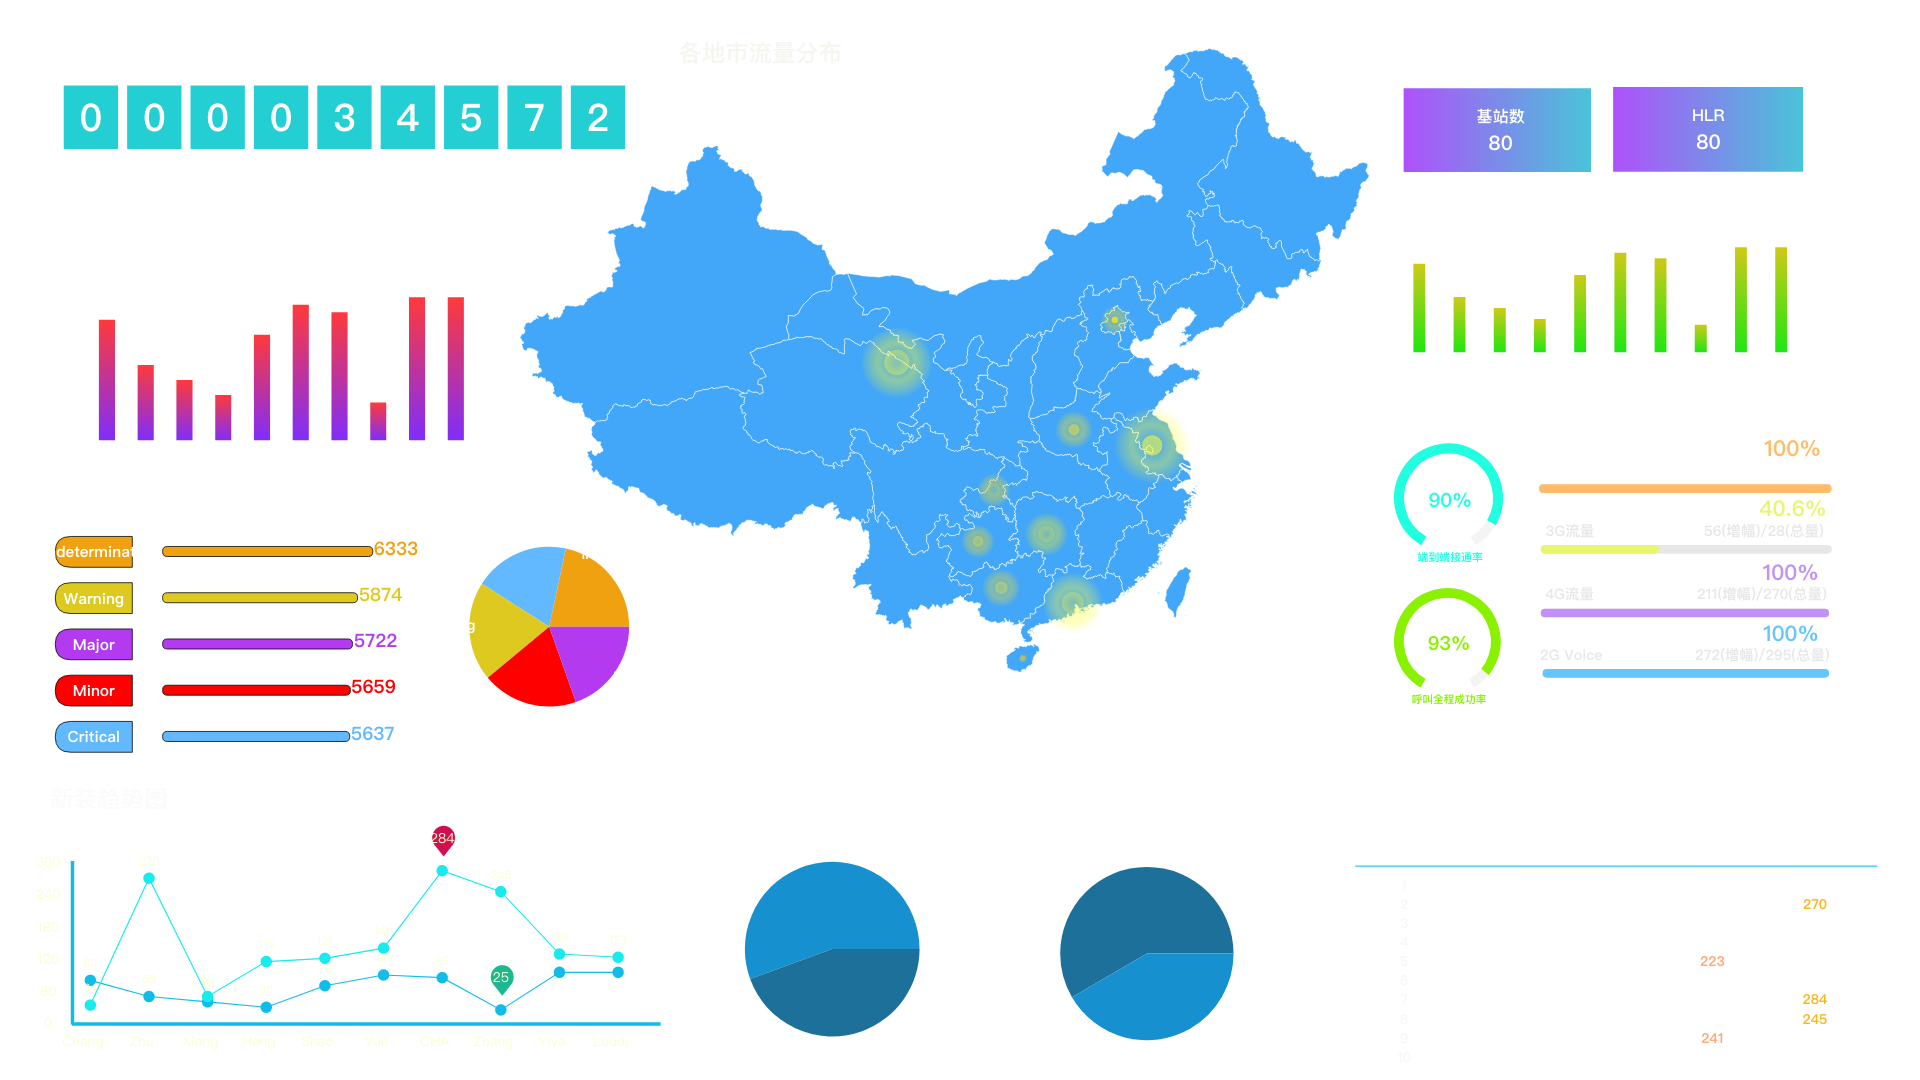
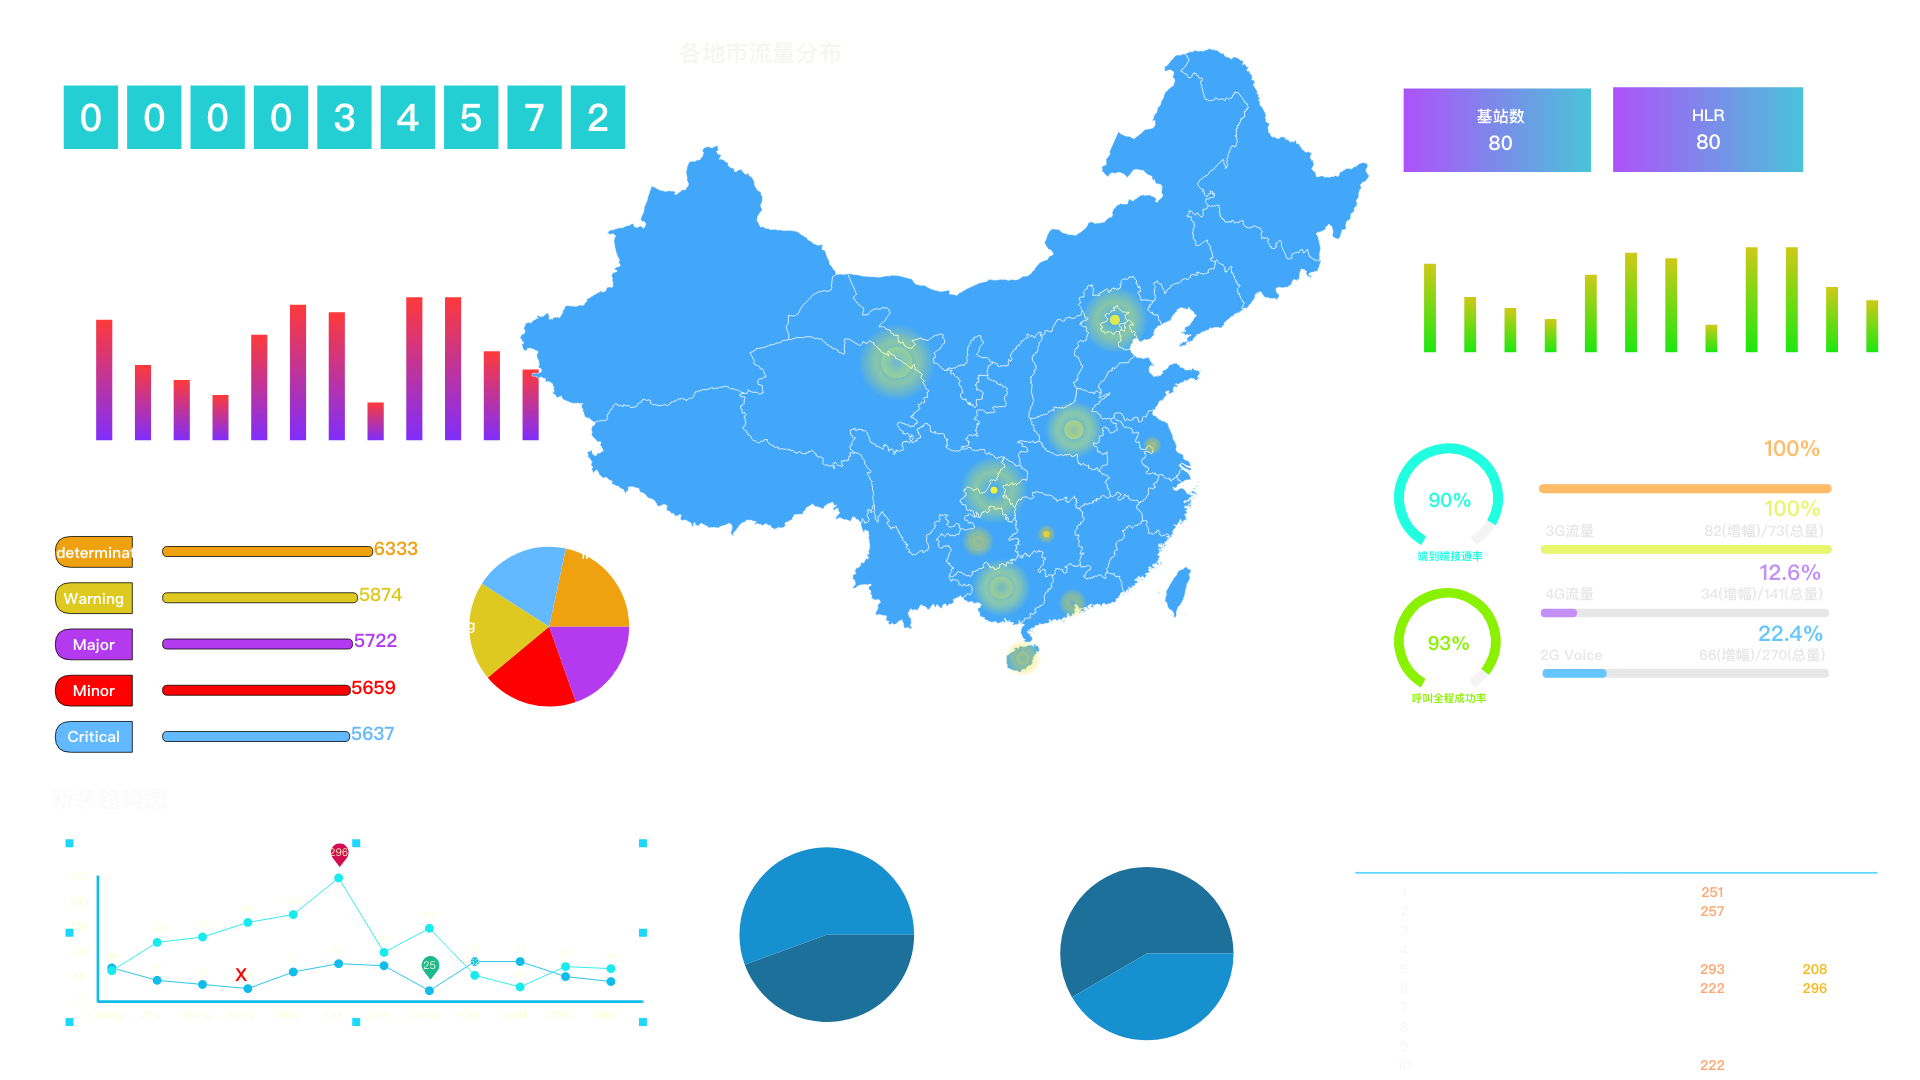
oss8.0

diff --git a/oss8.0/pm/screendesigner/js/dbHelper/virtualDB.js b/oss8.0/pm/screendesigner/js/dbHelper/virtualDB.js
@@ -7,6 +7,24 @@ define([], function() {
         serverLabel: 'NetworkOverviewDemoQryService',
         xAxis: [
             {
+                id: 'field_Mongolia_1',
+                name: 'Mongolia City',
+                data: [
+                    '阿拉善盟',
+                    '巴彦淖尔',
+                    '乌海市',
+                    '鄂尔多斯',
+                    '包头市',
+                    '呼和浩特',
+                    '乌兰察布',
+                    '锡林郭勒盟',
+                    '赤峰市',
+                    '通辽市',
+                    '兴安盟',
+                    '呼伦贝尔市',
+                ]
+            },
+            {
                 id: 'field_1',
                 name: 'City',
                 data: [
@@ -19,7 +37,9 @@ define([], function() {
                     'CHA',
                     'Zhang',
                     'Yiya',
-                    'Loudi'
+                    'Loudi',
+                    'ZHK',
+                    'Shuo'
                 ]
             }, {
                 id: 'field_11',
@@ -34,7 +54,10 @@ define([], function() {
                     '14h',
                     '15h',
                     '16h',
-                    '17h'
+                    '17h',
+                    '16h',
+                    '17h',
+
                 ]
             },
             {
@@ -68,6 +91,22 @@ define([], function() {
                 "CN-32",
                 "CN-41"
               ]
+            },
+            {
+              id:'filed_Mongolia_map',
+              'name':'Mongolia Map',
+              data:[
+                "Hulunbuir",
+                "Hinggan",
+                "Tongliao",
+                "Chifeng",
+                "XilinGol",
+                "Ulanqab",
+                "Honhot",
+                "Baotou",
+                "Ordos",
+                "Alxa",
+              ]
             }
         ],
         yAxis: [
@@ -85,11 +124,15 @@ define([], function() {
                     25,
                     95,
                     95,
+                    fish.random(20,85),
+                    fish.random(20,85),
                 ]
             }, {
                 id: 'field_3',
                 name: '3G Data traffic',
                 data: [
+                    fish.random(20,300),
+                    fish.random(20,300),
                     fish.random(20,300),
                     fish.random(20,300),
                     fish.random(20,300),
@@ -115,11 +158,15 @@ define([], function() {
                     fish.random(20,300),
                     fish.random(20,300),
                     fish.random(20,300),
+                    fish.random(20,300),
+                    fish.random(20,300),
                 ]
             }, {
                 id: 'field_5',
                 name: 'Base station number',
                 data: [
+                    fish.random(20,300),
+                    fish.random(20,300),
                     fish.random(20,300),
                     fish.random(20,300),
                     fish.random(20,300),
@@ -145,11 +192,15 @@ define([], function() {
                     fish.random(20,300),
                     fish.random(20,300),
                     fish.random(20,300),
+                    fish.random(20,300),
+                    fish.random(20,300),
                 ]
             }, {
                 id: 'field_7',
                 name: '4G Base station number',
                 data: [
+                    fish.random(20,300),
+                    fish.random(20,300),
                     fish.random(20,300),
                     fish.random(20,300),
                     fish.random(20,300),
@@ -175,11 +226,15 @@ define([], function() {
                     fish.random(20,300),
                     fish.random(20,300),
                     fish.random(20,300),
+                    fish.random(20,300),
+                    fish.random(20,300),
                 ]
             }, {
                 id: 'field_9',
                 name: '2G Voice traffic',
                 data: [
+                    fish.random(20,300),
+                    fish.random(20,300),
                     fish.random(20,300),
                     fish.random(20,300),
                     fish.random(20,300),
@@ -206,6 +261,8 @@ define([], function() {
                     fish.random(20,300),
                     fish.random(20,300),
                     fish.random(20,300),
+                    fish.random(20,300),
+                    fish.random(20,300),
                 ]
             }, {
                 id: 'field_12',
@@ -220,7 +277,9 @@ define([], function() {
                     34572,
                     34572,
                     34572,
-                    34572
+                    34572,
+                    34572,
+                    34572,
                 ]
             }
         ]

diff --git a/oss8.0/pm/screendesigner/js/graphLibs/GStripLineBase.js b/oss8.0/pm/screendesigner/js/graphLibs/GStripLineBase.js
@@ -140,7 +140,7 @@ define([
                }
 
             for(var i = 0 ;i<xlen;i++){
-
+                var color=colors[i%colors.length];
                 var label_y = (y-h)+(i*12)+20;
                 var label = this.attrs.xAxisLabels[i]
                 this.doms['x_label'+i] = paper.rect(x+label_x,label_y, 15, 6).attr({'fill': color, 'stroke-width': 0});
@@ -157,7 +157,6 @@ define([
             this.doms['remove'] = this.paper.text(160, -30, 'X').attr({'fill': 'red', 'font-size': 20, 'font-family': '微软雅黑', 'font-weight': 'bold'});;
 
         },
-
         drawLine:function(data,lineIndex,space_w,max,x,y,r,w,h,color,xlen,xAxisMax,xAxisMin) {
               x=x+10;
             var paper = this.paper;
@@ -198,7 +197,6 @@ define([
             this.doms['bgPath'+lineIndex] = bgPath;
             return items;
         },
-
         getMaxLength:function(names) {
               var   len = 0;
               var  result = "";
@@ -211,8 +209,6 @@ define([
              }
              return result;
         },
-
-
         getXAxisNames: function() {
             return this.attrs.xAxisNames;
         },
@@ -310,18 +306,14 @@ define([
             console.log("" + color)
             this.attrs.titleColor = "" + color;
         },
-
         getTitle: function() {
             return this.attrs.title;
         },
         getTitleColor: function() {
             return this.attrs.titleColor;
         },
-
         toGraph: function(choiceTreeJson) {
           try {
-            console.log("fjkdjhfkjdshkds");
-            console.log(choiceTreeJson);
             var json = {};
             json.xAxis = {};
             json.xAxis.data = choiceTreeJson.xAxis[0].data;
@@ -332,7 +324,6 @@ define([
             this.setXAxisNames(json.xAxis.data)
             this.setXAxisDatas(json.series.data)
             this.setXAxisLabels(json.series.labels)
-
           }catch(e){
             console.log("GStripLineBase ToGraph");
             console.log(choiceTreeJson);

diff --git a/oss8.0/pm/screendesigner/js/graphLibs/mapBase/MapSplashes.js b/oss8.0/pm/screendesigner/js/graphLibs/mapBase/MapSplashes.js
@@ -4,7 +4,6 @@ define([
    "oss_core/pm/screendesigner/actions/BScreenMgrAction"
 ], function(MapBase, View, action) {
    var MapSplashes  = MapBase.extend({
-
      initAttrs: function() {
        var self = this;
        this.attrs.mapId = this.attrs.mapId || 'NONE';
@@ -54,9 +53,11 @@ define([
        var max =fish.max(self.attrs.mapDatas,function(data){
          return data[1]
        })[1];
+
        var showTitle = this.attrs.showTitle;
        var showValue = this.attrs.showValue;
        for (var i = 0; i < self.attrs.mapDatas.length; i++){
+         try {
          var data = {
            'id': self.attrs.mapDatas[i][0],
            'value':self.attrs.mapDatas[i][1]
@@ -87,15 +88,21 @@ define([
              self.doms["map_" + data.id + "_value"] = this.paper.text(x, y, data.value).attr({'fill': '#fff', 'font-size': 18, 'font-family': '微软雅黑', 'font-weight': 'bold'}).toFront()
            }
          }
+         }catch(e){
+          alert('error');
+         }
 
        } //end of for
+
      },
-      createlightRing :function(data,sclr,fclr,max,r,i){
+     createlightRing :function(data,sclr,fclr,max,r,i){
+       r=r||20;
        var self =this;
        var bbox = self.doms["map_" + data.id].getBBox();
        var x = bbox.x + bbox.width / 2;
        var y = bbox.y + bbox.height / 2;
        var title = self.doms["map_" + data.id].title || data.id;
+       data.value= data.value||0;
        var per = data.value/max;
        var dyR= r * per;
        var color = self.pickHex(sclr, fclr, per)
@@ -116,7 +123,7 @@ define([
         //self.doms['map_circle_glow'+data.id].animate(aniam2)
      },
      createPoint:function(data,sclr,fclr,max,r){
-
+       r=r||20;
        var self =this;
        var bbox = self.doms["map_" + data.id].getBBox();
        var x = bbox.x + bbox.width / 2;

diff --git a/oss8.0/pm/screendesigner/js/graphLibs/mapBase/MapBase.js b/oss8.0/pm/screendesigner/js/graphLibs/mapBase/MapBase.js
@@ -131,6 +131,7 @@ define([
       this.MapResult=result;
 
       self.areaEffect(mapBox, result)
+
       this.doms['config'] = this.paper.text(100, -20, '配置').attr({'fill': 'red', 'font-size': 18, 'font-family': '微软雅黑', 'font-weight': 'bold'});;
       this.doms['remove'] = this.paper.text(100, 10, 'X').attr({'fill': 'red', 'font-size': 20, 'font-family': '微软雅黑', 'font-weight': 'bold'});;
     },
@@ -144,11 +145,13 @@ define([
       var all_str=""
       for (var i = 0; i < result.length; i++) {
         var data = result[i];
-
+        try{
         self.doms["map_" + data.id] = this.paper.path(data.d).attr({'fill': fcolor, 'stroke': lineColor, 'stroke-width': 0.5, "fill-opacity": 1})
         self.doms["map_" + data.id].title = data.title;
-
         MapSet.push(self.doms["map_" + data.id]);
+        }catch(e){
+
+        }
 
       }
 
